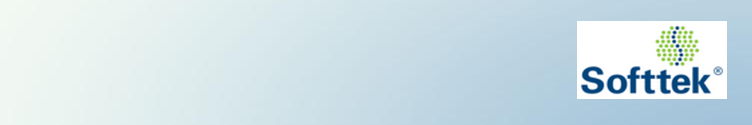
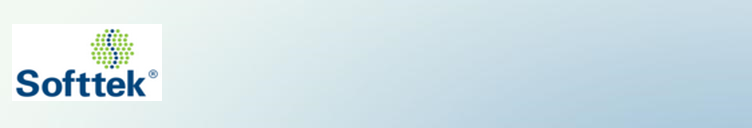
Add padding

Changed region(s): [[0.7646, 0.168, 0.9787, 0.792], [0.0, 0.192, 0.2141, 0.792]]

diff --git a/static/css/master.css b/static/css/master.css
@@ -79,7 +79,14 @@ body.about #header {
 	height: 120px;
 	background: #db6d16
 		    url(../images/background.png);
+	padding: 1px 5px 0px 0px;
 }
+
+body.about #header p {
+	vertical-align: middle;
+	text-align: right;
+}
+
 
 h1 {
 	margin: 0;
@@ -92,6 +99,7 @@ h1 {
 #content {
 
 	margin-right: 280px;
+	padding-top: 15px;
 }
 
 #content .padding {

diff --git a/templates/base.html b/templates/base.html
@@ -17,7 +17,7 @@
         <div id="page-container">
 
 	        <div id="header">
-
+                <p>Welcome: <b>Erick Ramirez</b></p>
 	        </div>
 
 	        <div id="content">

diff --git a/templates/home.html b/templates/home.html
@@ -2,6 +2,7 @@
 
 {% block content %}
 
+
     <form action= 'list_server' method="get">
         {% csrf_token %}
         <input type="submit" value="Server List" id="toggle1" />
